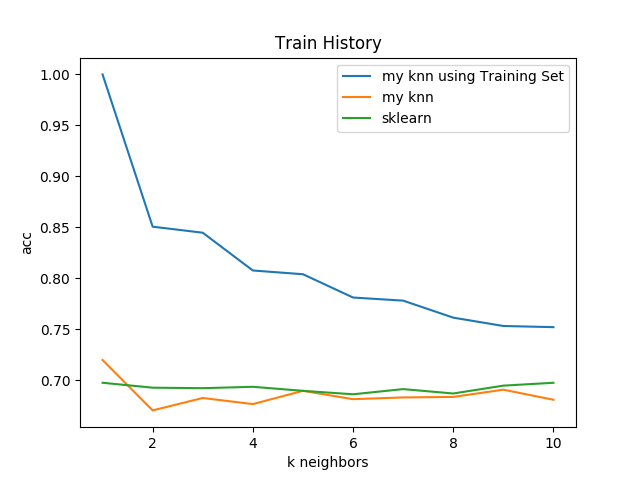
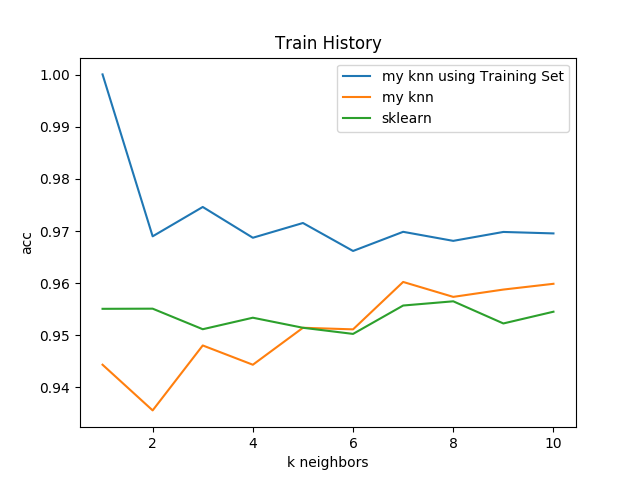
[Bug fix] forgot to use normalization

diff --git a/Pattern Recognition/knn.py b/Pattern Recognition/knn.py
@@ -22,9 +22,9 @@ class KNN(object):
 		else:
 			scaler = MinMaxScaler().fit(self.X)
 
-		self.data = scaler.transform(self.X)
+		self.X = scaler.transform(self.X)
 		numpy.set_printoptions(precision=3)
-		# print(self.data[0:5,:])
+		# print(self.X[0:5,:])
 
 	def classify(self, testset_vec, trainset_vec, trainset_class, k=5):
 		"""
@@ -53,7 +53,7 @@ class KNN(object):
 		sk_test_acc = 0
 		clf = neighbors.KNeighborsClassifier()
 		for _ in range(itertimes):
-			kf = KFold(len(self.data), n_folds=self.fold, shuffle=True)
+			kf = KFold(len(self.X), n_folds=self.fold, shuffle=True)
 			for train_index, test_index in kf:
 				X_train, X_test = self.X[train_index], self.X[test_index]
 				Y_train, Y_test = self.Y[train_index], self.Y[test_index]
